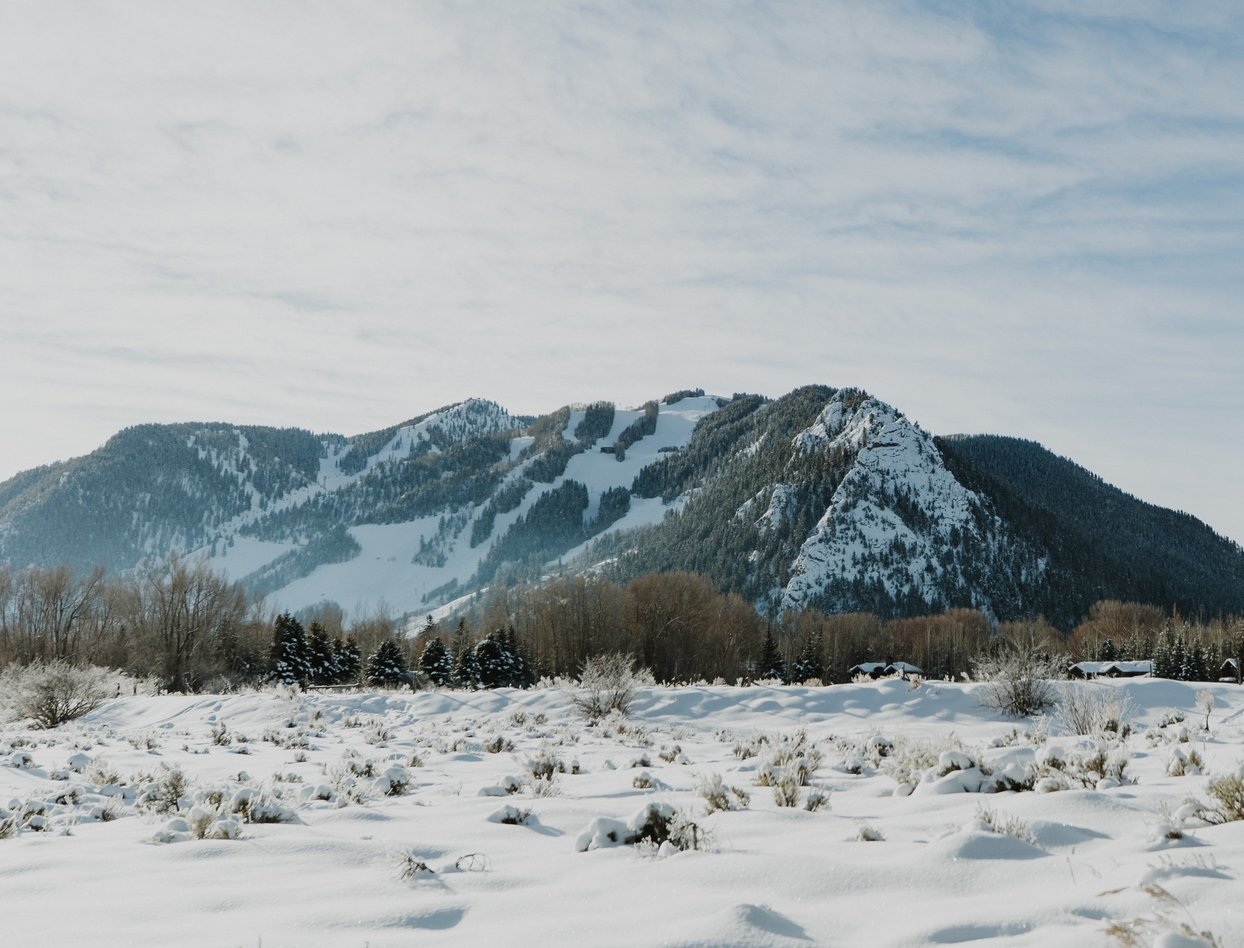
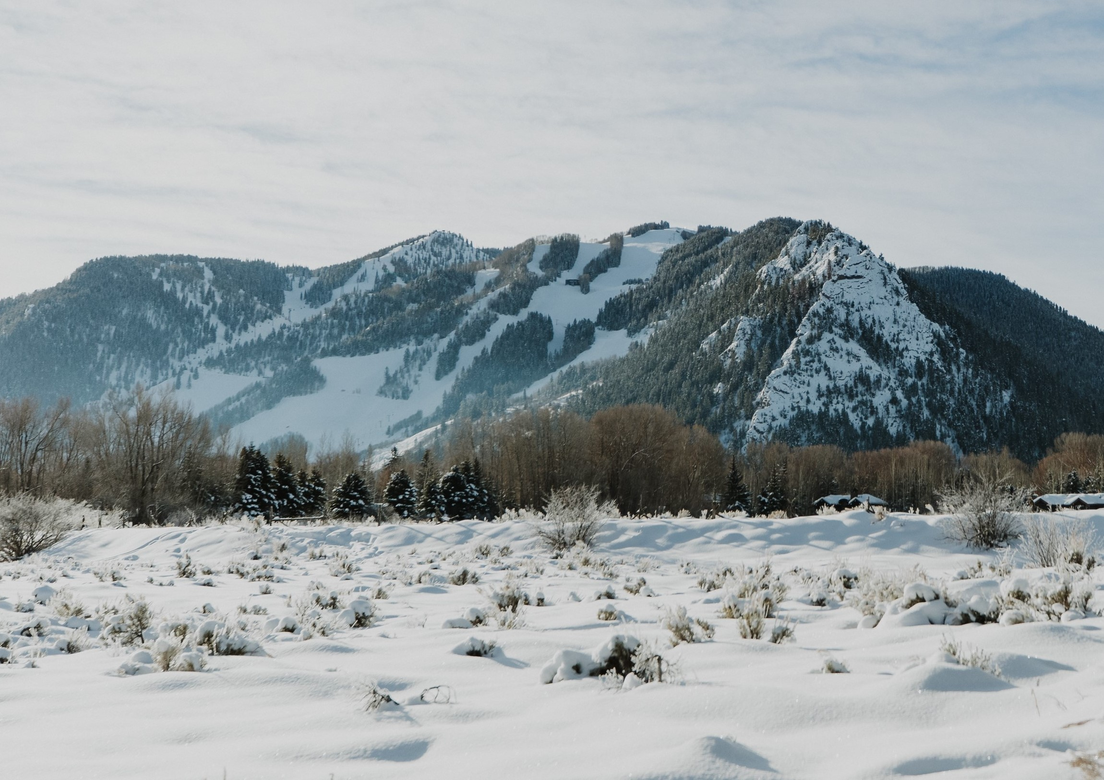
picture update size

diff --git a/css/style.css b/css/style.css
@@ -1,5 +1,5 @@
 :root {
-  --color1: #eeeeee;
+  --color1: white;
   --color2: #aaaaaa;
   --color3: #929495;
   --color4: #afbed1;
@@ -15,7 +15,7 @@ a {
   color: var(--color4);
 }
 body {
-  background-color: var(--color9);
+  /* background-color: var(--color9); */
   color: var(--color4);
   font-family: Verdana, Geneva, Tahoma, sans-serif;
   font-size: 120%;
@@ -26,12 +26,9 @@ footer {
   font-size: 100%;
 }
 html {
-  background-image: url("https://raw.githubusercontent.com/2020-Summer-Cohort/blog-java-optimistic-wanderer/master/src/main/resources/static/images/waterfall%20forest%20color.png");
+  background-image: url("https://raw.githubusercontent.com/ChristinCode/ChristinCode.github.io/master/Images/Mountain.jpg");
   background-repeat: no-repeat;
   background-size: cover;
-  font-family: 'Gill Sans', 'Gill Sans MT', Calibri, 'Trebuchet MS', sans-serif;
-  font-size: 1.5em;
-  color: var(--color1);
 }
 h1 {
   color: var(--color4);
